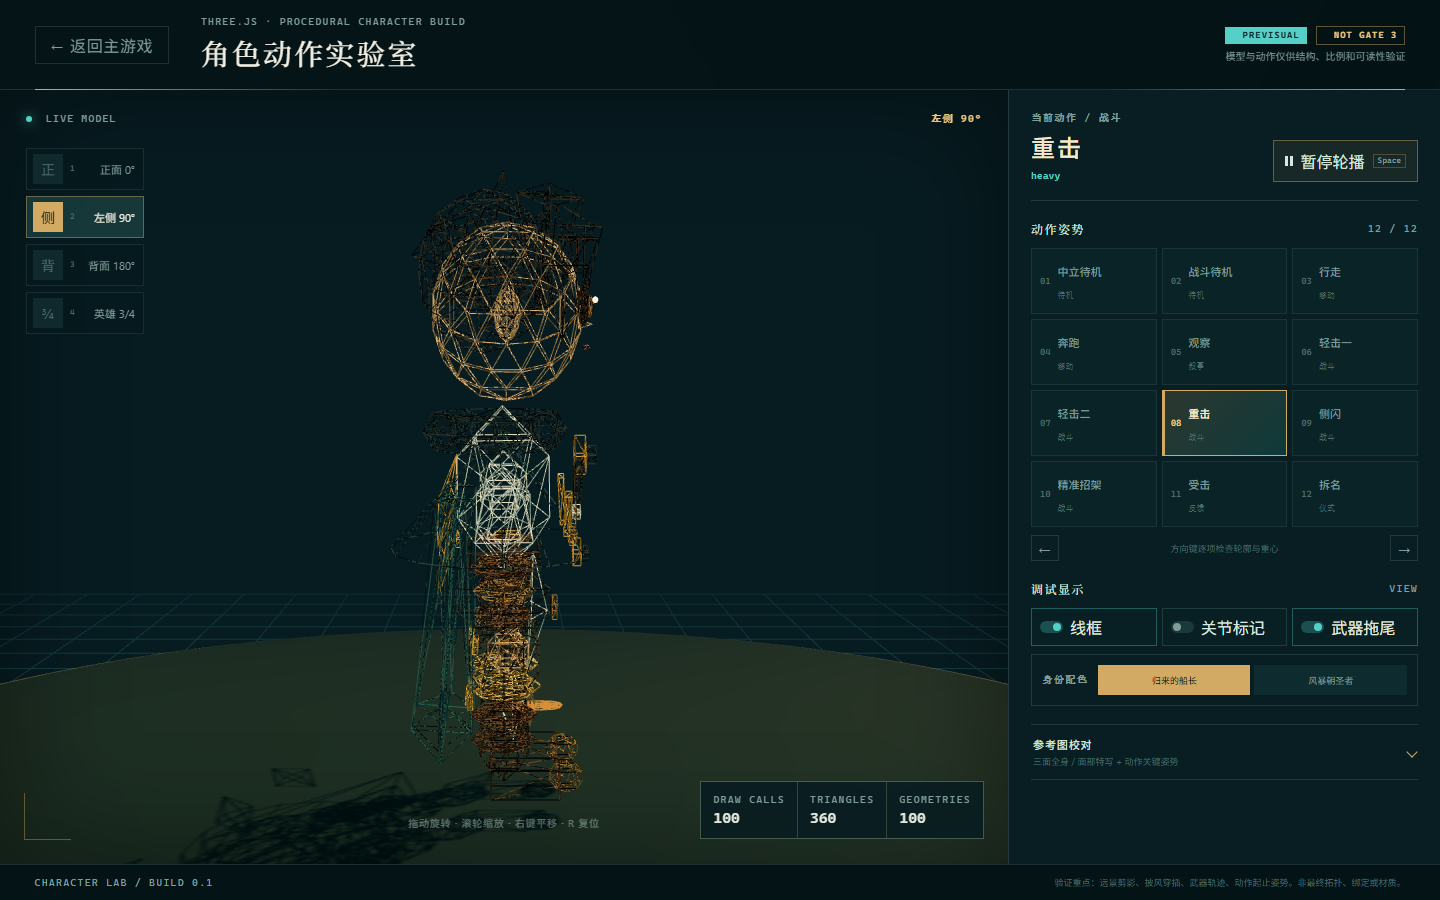
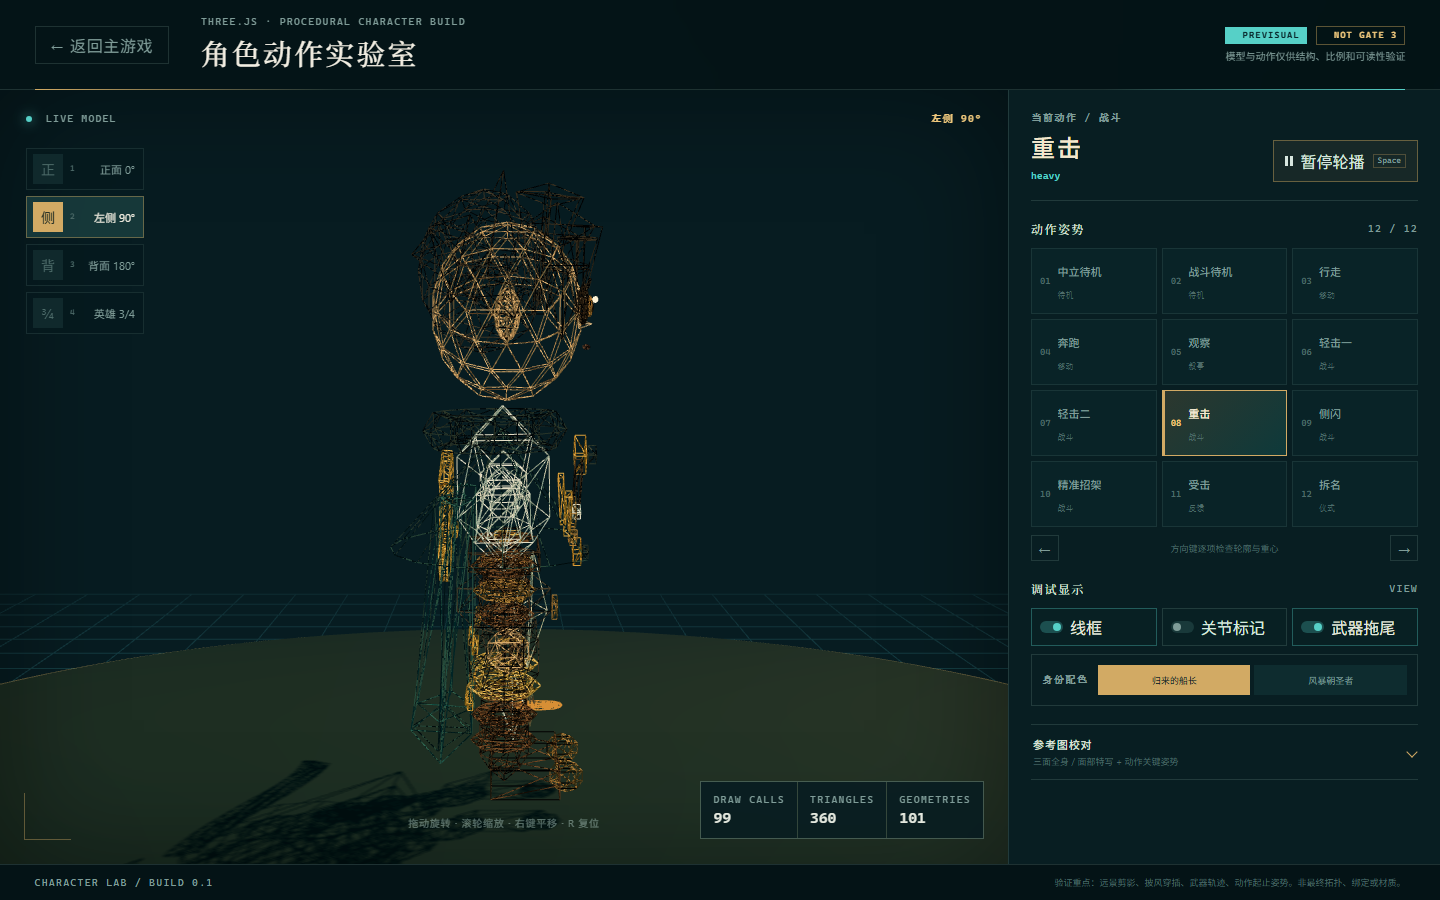
docs(odyssey): align hero registry and visual evidence
Point the hero asset record at the real procedural model, document the continuous ribbon and timed trail contract, and refresh solid/wireframe captures.

The captures remain graybox evidence; they do not grant Gate 3 approval.

Changed region(s): [[0.2812, 0.2178, 0.4062, 0.8711], [0.5, 0.9022, 0.5312, 0.9333]]

diff --git a/games/odyssey-reimagined/docs/HERO-CODE-MODEL-v1.md b/games/odyssey-reimagined/docs/HERO-CODE-MODEL-v1.md
@@ -11,7 +11,7 @@
 | 层 | 四视图要求 | 代码实现策略 |
 |---|---|---|
 | 比例 | 约 4.5 头身、头大肩窄、手脚略放大 | 以脚底中心为原点，头/胸/骨盆/四肢使用独立 pivot |
-| 轮廓 | 黑色块面发束、宽兜帽、高领披风、右后方赭金尾带 | 发束、兜帽、三片披风和尾带独立几何，不靠纹理假轮廓 |
+| 轮廓 | 黑色块面发束、宽兜帽、高领披风、右后方赭金尾带 | 发束、开放前襟、三片披风和连续挤出尾带独立几何，不靠纹理假轮廓 |
 | 配色 | 黑发、暖棕肤色、深海青披风、盐白内衫、赭金边、深褐护具 | 少量共享哑光材质；金属仅用于扣具和桨刃局部 |
 | 服装 | 胸前菱形扣、几何披风边纹、腰带包、分段护臂、灯笼裤、分层靴 | 每类作为可替换 group；装饰用浅浮雕几何而非高分辨率贴图 |
 | 装备 | 短柄桨刃、浅色刃体、青色嵌芯 | 武器独立 pivot；攻击姿势和拖尾不改变规则命中 |
@@ -19,7 +19,7 @@
 
 ## 组件契约
 
-- `HeroCharacterModel`：主模型，提供动作、身份色、线框、关节标记、武器拖尾与缩放参数。
+- `HeroCharacterModel`：主模型，提供动作、身份色、线框、关节标记、限时武器拖尾与缩放参数。
 - `HERO_LAB_ACTIONS`：12 个调试动作的唯一 UI 清单。
 - `HeroModel`：现有游戏适配器，继续接受 reducer 的 `ActionName`，不让视觉状态写回规则。
 - 世界坐标：Y 轴向上，脚底中心为模型原点；主游戏继续由 `PlayerRig` 决定移动、面向和镜头。
@@ -28,12 +28,14 @@
 
 浏览器地址：`/?lab=character`
 
-调试页必须支持：OrbitControls、正/左/背/四分之三视角、12 动作切换、自动轮播、暂停、线框、关节标记、武器拖尾、参考图对照和 Three.js draw calls / triangles / geometries 统计。
+调试页支持：OrbitControls、正/左/背/四分之三视角、12 动作切换与重播、自动轮播、暂停、线框、关节标记、武器拖尾、参考图对照和 Three.js draw calls / triangles / geometries 统计。四分之三镜头用于审形，不声称是参考图缺失的右侧全身视图；右侧结构仍是对称推断。
 
 ## 真实边界
 
 - 这是用基本几何重建的可运行代码模型，不是从图片自动恢复出的精确网格。
 - 动作是 pivot 驱动的姿势插值，不是骨骼蒙皮动画；可用于验证比例、穿模和动作读性。
+- Spritesheet 是 12 个语义关键姿势，不是逐帧动画证据；点击当前动作可重新触发一次动作。
+- 浏览器性能必须在真实 GPU 上另测；Playwright 的 SwiftShader 软件渲染数据不能代表玩家设备。
 - 正式模型仍需要 DCC 中完成拓扑、法线、UV、绑定、权重、动画 clips、碰撞代理与 LOD，并通过 Gate 3 后才能替换为生产资产。
 
 ## 评测顺序
@@ -43,4 +45,3 @@
 3. 在线框与关节模式检查部件层级。
 4. 回到主游戏战斗镜头检查实际屏幕占比与招式可读性。
 5. 记录 draw calls / triangles，再决定是否合并静态部件或转 GLB。
-
